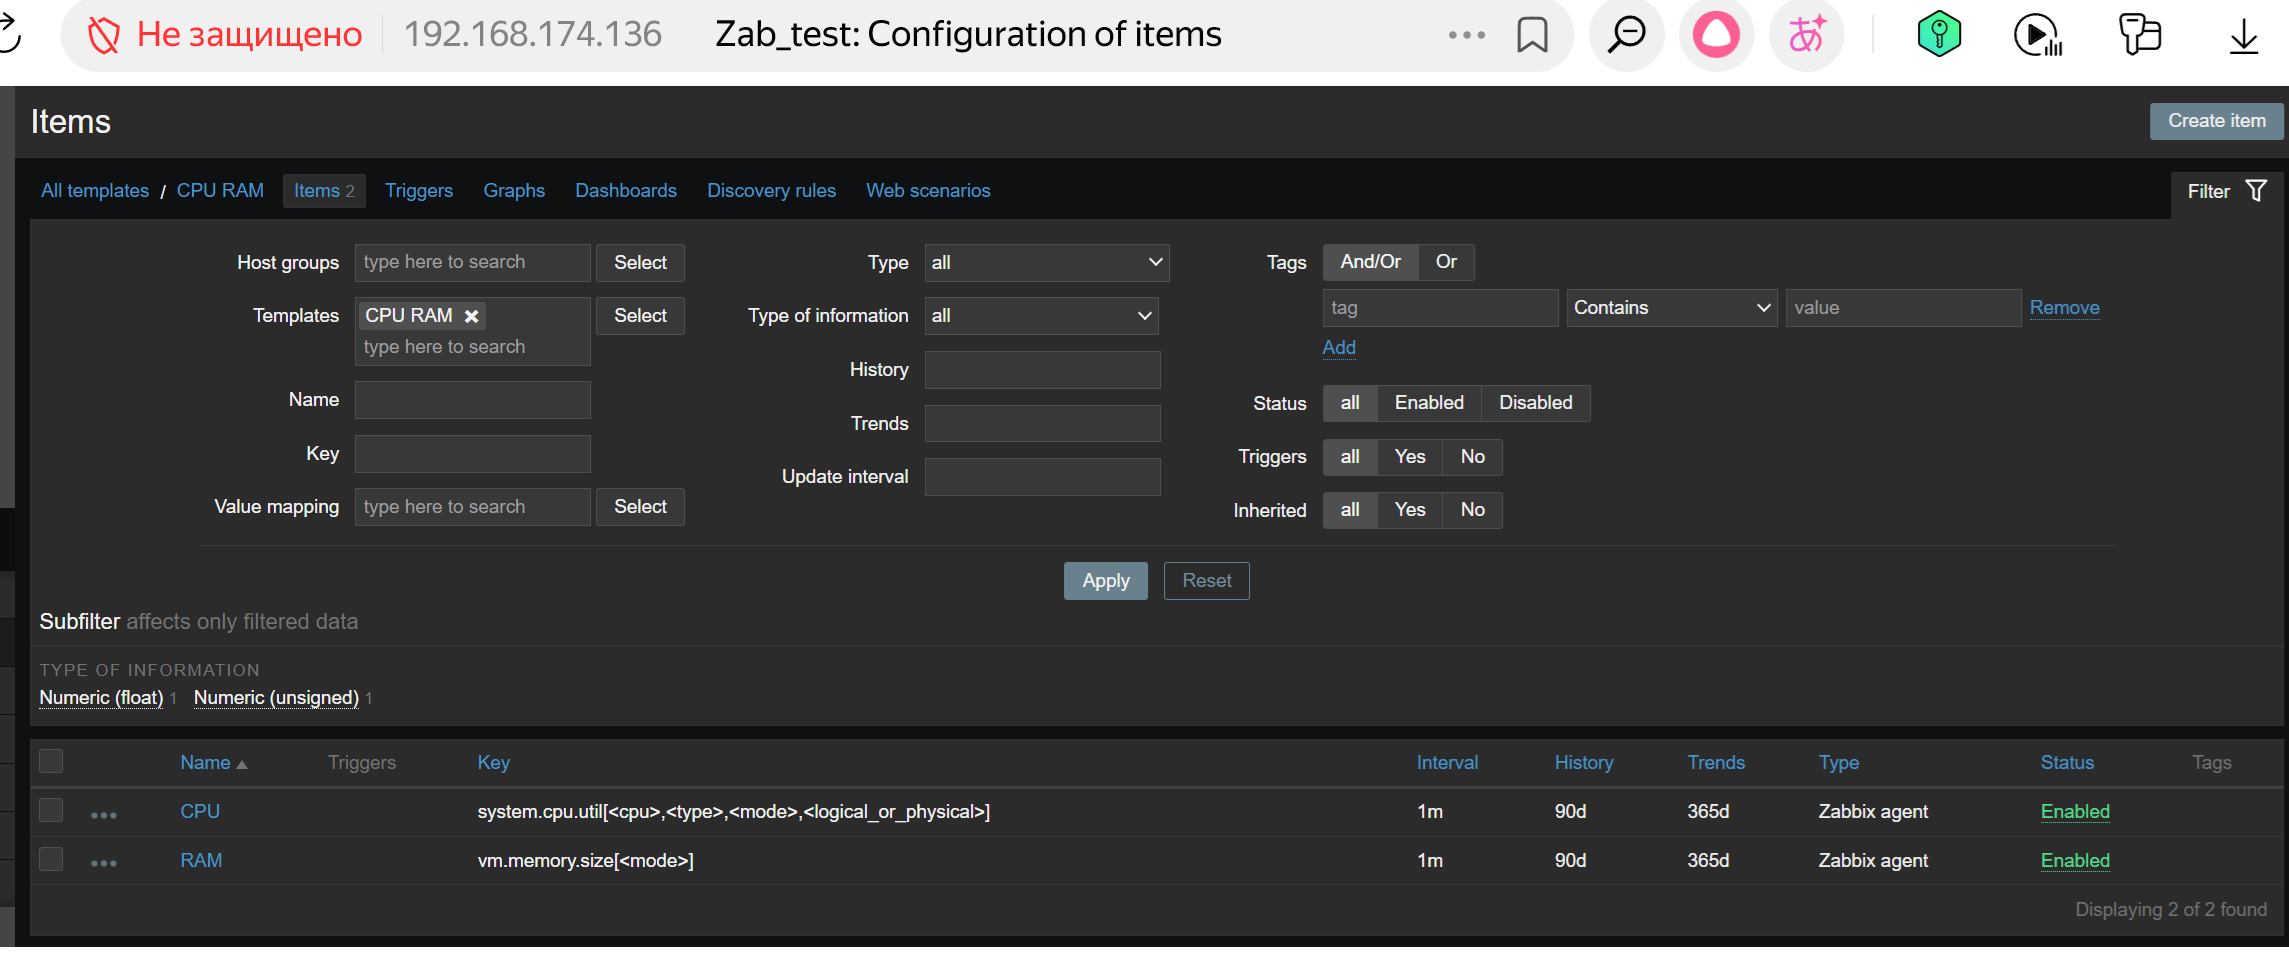
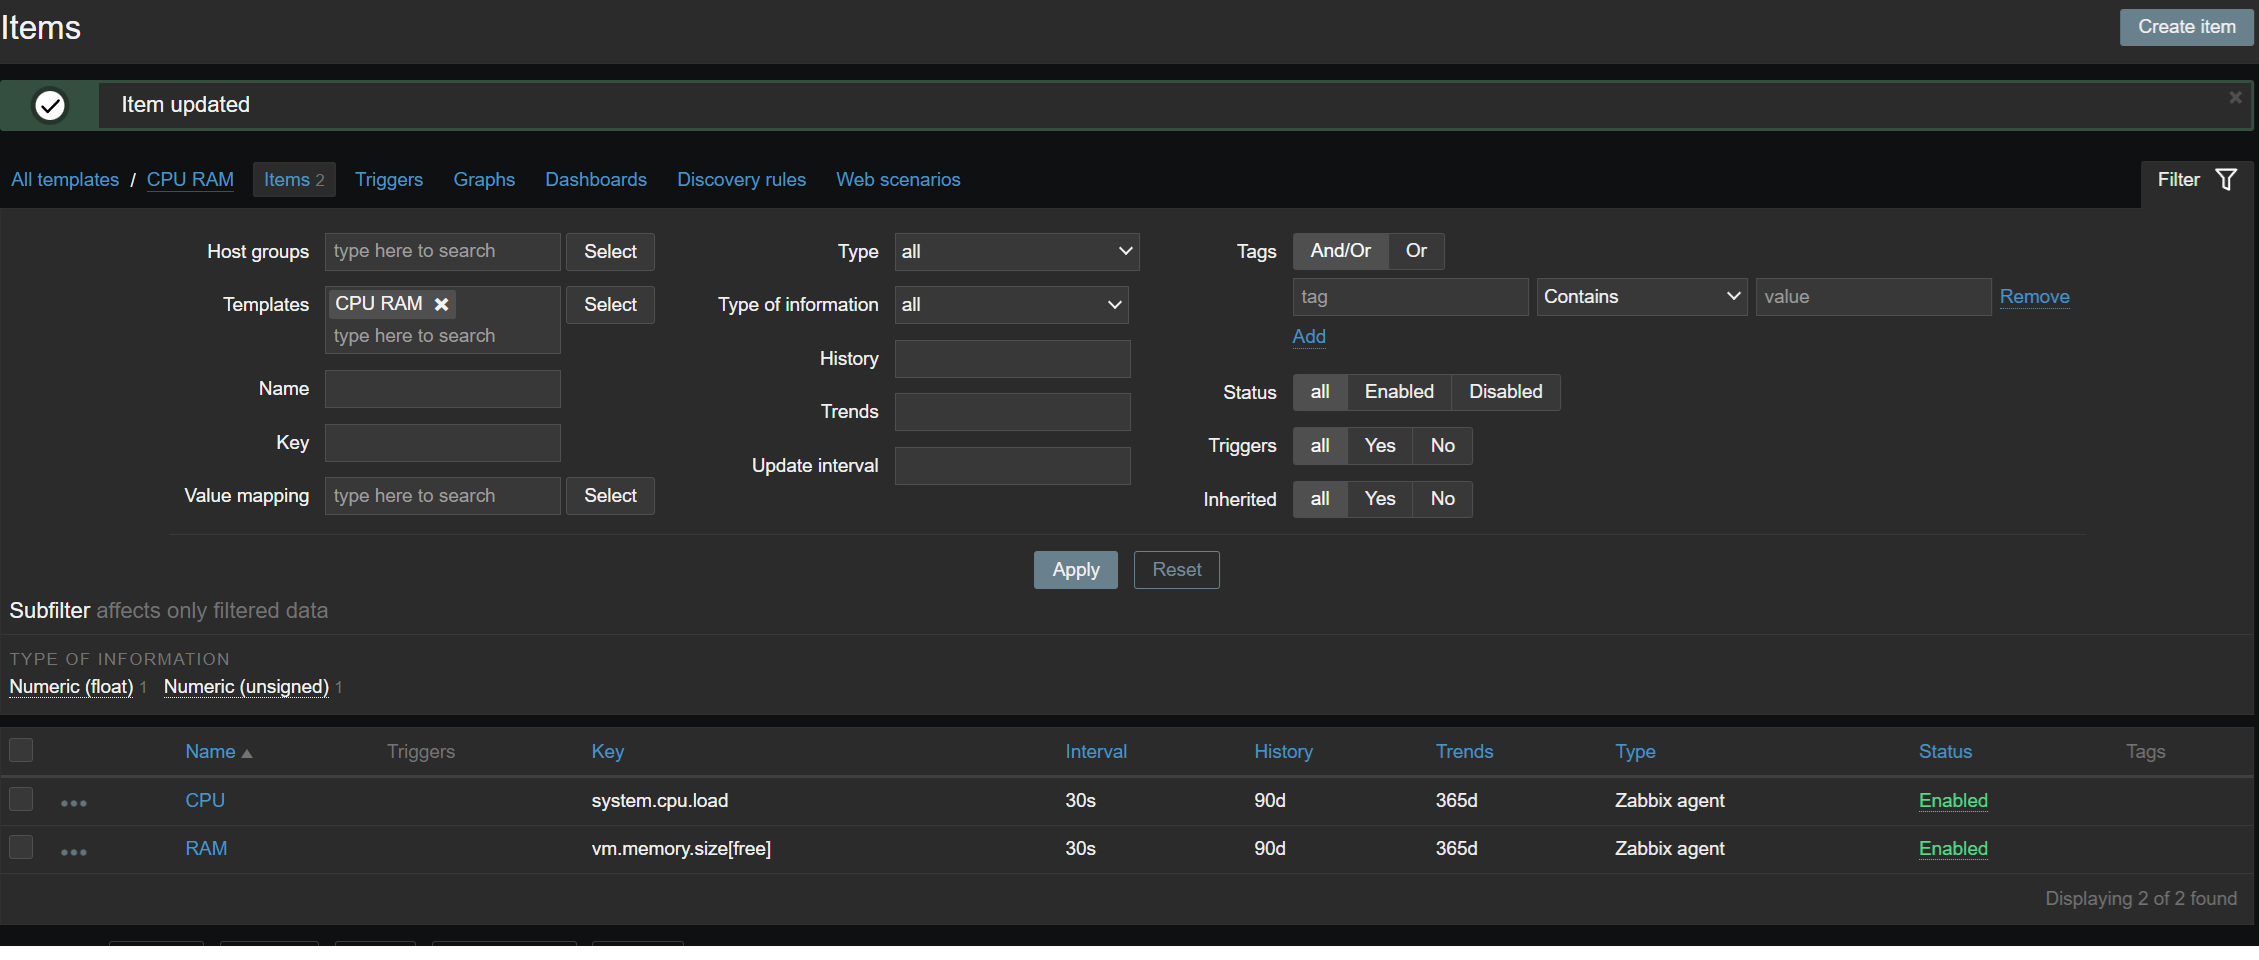
Задание 2-3

diff --git a/README.md b/README.md
@@ -16,17 +16,32 @@
 ---
 
 ### Задание 2
+Добавьте в Zabbix два хоста и задайте им имена <фамилия и инициалы-1> и <фамилия и инициалы-2>. Например: ivanovii-1 и ivanovii-2.
 
-![настройки declarative](https://github.com/ddponomarev/dewops/blob/main/img/z2.png)
-![результат сборки](https://github.com/ddponomarev/dewops/blob/main/img/z2b.png)
-
+Процесс выполнения
+Выполняя ДЗ сверяйтесь с процессом отражённым в записи лекции.
+Установите Zabbix Agent на 2 виртмашины, одной из них может быть ваш Zabbix Server
+Добавьте Zabbix Server в список разрешенных серверов ваших Zabbix Agentов
+Добавьте Zabbix Agentов в раздел Configuration > Hosts вашего Zabbix Servera
+Прикрепите за каждым хостом шаблон Linux by Zabbix Agent
+Проверьте что в разделе Latest Data начали появляться данные с добавленных агентов
+Требования к результату
+ Результат данного задания сдавайте вместе с заданием 3
 
 ---
 
 ### Задание 3
+Привяжите созданный шаблон к двум хостам. Также привяжите к обоим хостам шаблон Linux by Zabbix Agent.
 
-![настройки ](https://github.com/ddponomarev/dewops/blob/main/img/z3.png)
-![результат сборки](https://github.com/ddponomarev/dewops/blob/main/img/z3b.png)
+Процесс выполнения
+Выполняя ДЗ сверяйтесь с процессом отражённым в записи лекции.
+Зайдите в настройки каждого хоста и в разделе Templates прикрепите к этому хосту ваш шаблон
+Так же к каждому хосту привяжите шаблон Linux by Zabbix Agent
+Проверьте что в раздел Latest Data начали поступать необходимые данные из вашего шаблона
+Требования к результату
+ Прикрепите в файл README.md скриншот страницы хостов, где будут видны привязки шаблонов с названиями «Задание 2-3». Хосты должны иметь зелёный статус подключения
+![Задание2,3](https://github.com/ddponomarev/zabbix_2/blob/main/img/zad2-3.png)
+
 
 
 ---
